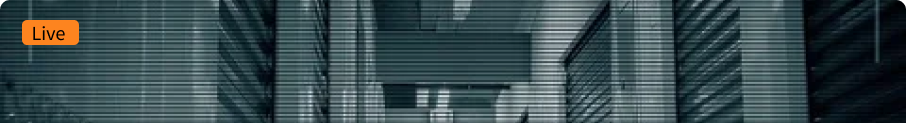
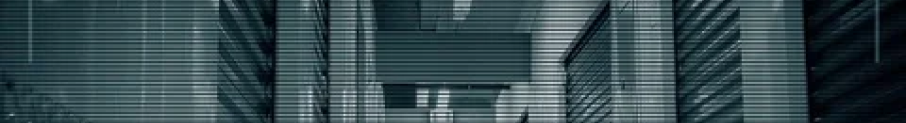
UI changes

Changed region(s): [[0.0, 0.1463, 0.0927, 0.3659], [0.989, 0.0, 1.0, 0.0488], [0.0, 0.0, 0.0309, 0.0244]]

diff --git a/src/css/teleop.css b/src/css/teleop.css
@@ -94,7 +94,7 @@
 
 .livefeed-video {
     width: 45vw;
-    height: 10vh;
+    height: 40vh;
     margin-left: 3vw;
     margin-top: 5vh;
     border-radius: 1rem 1rem 0 0;
@@ -112,6 +112,18 @@
     margin-top: 7vh;
     width: 20vw;
 
+}
+
+.livefeed-cont>p {
+    position: absolute;
+    margin-top: 7vh;
+    margin-left: 4vw;
+    background-color: #FD841F;
+    height: fit-content;
+    padding: 0.4rem;
+    font-family: "Source Sans Pro";
+    color: #16151A;
+    border-radius: 0.4rem;
 }
 
 .joy {

diff --git a/src/components/teleop.system.js b/src/components/teleop.system.js
@@ -158,6 +158,8 @@ export default function TeleOp() {
       </article>
       <article className="livefeed-cont">
         <img className="livefeed-video" src={Placeholder} alt="Livefeed" />
+        <p>Live</p>
+
         <span className="joy">
           <Joystick
             size={250}
